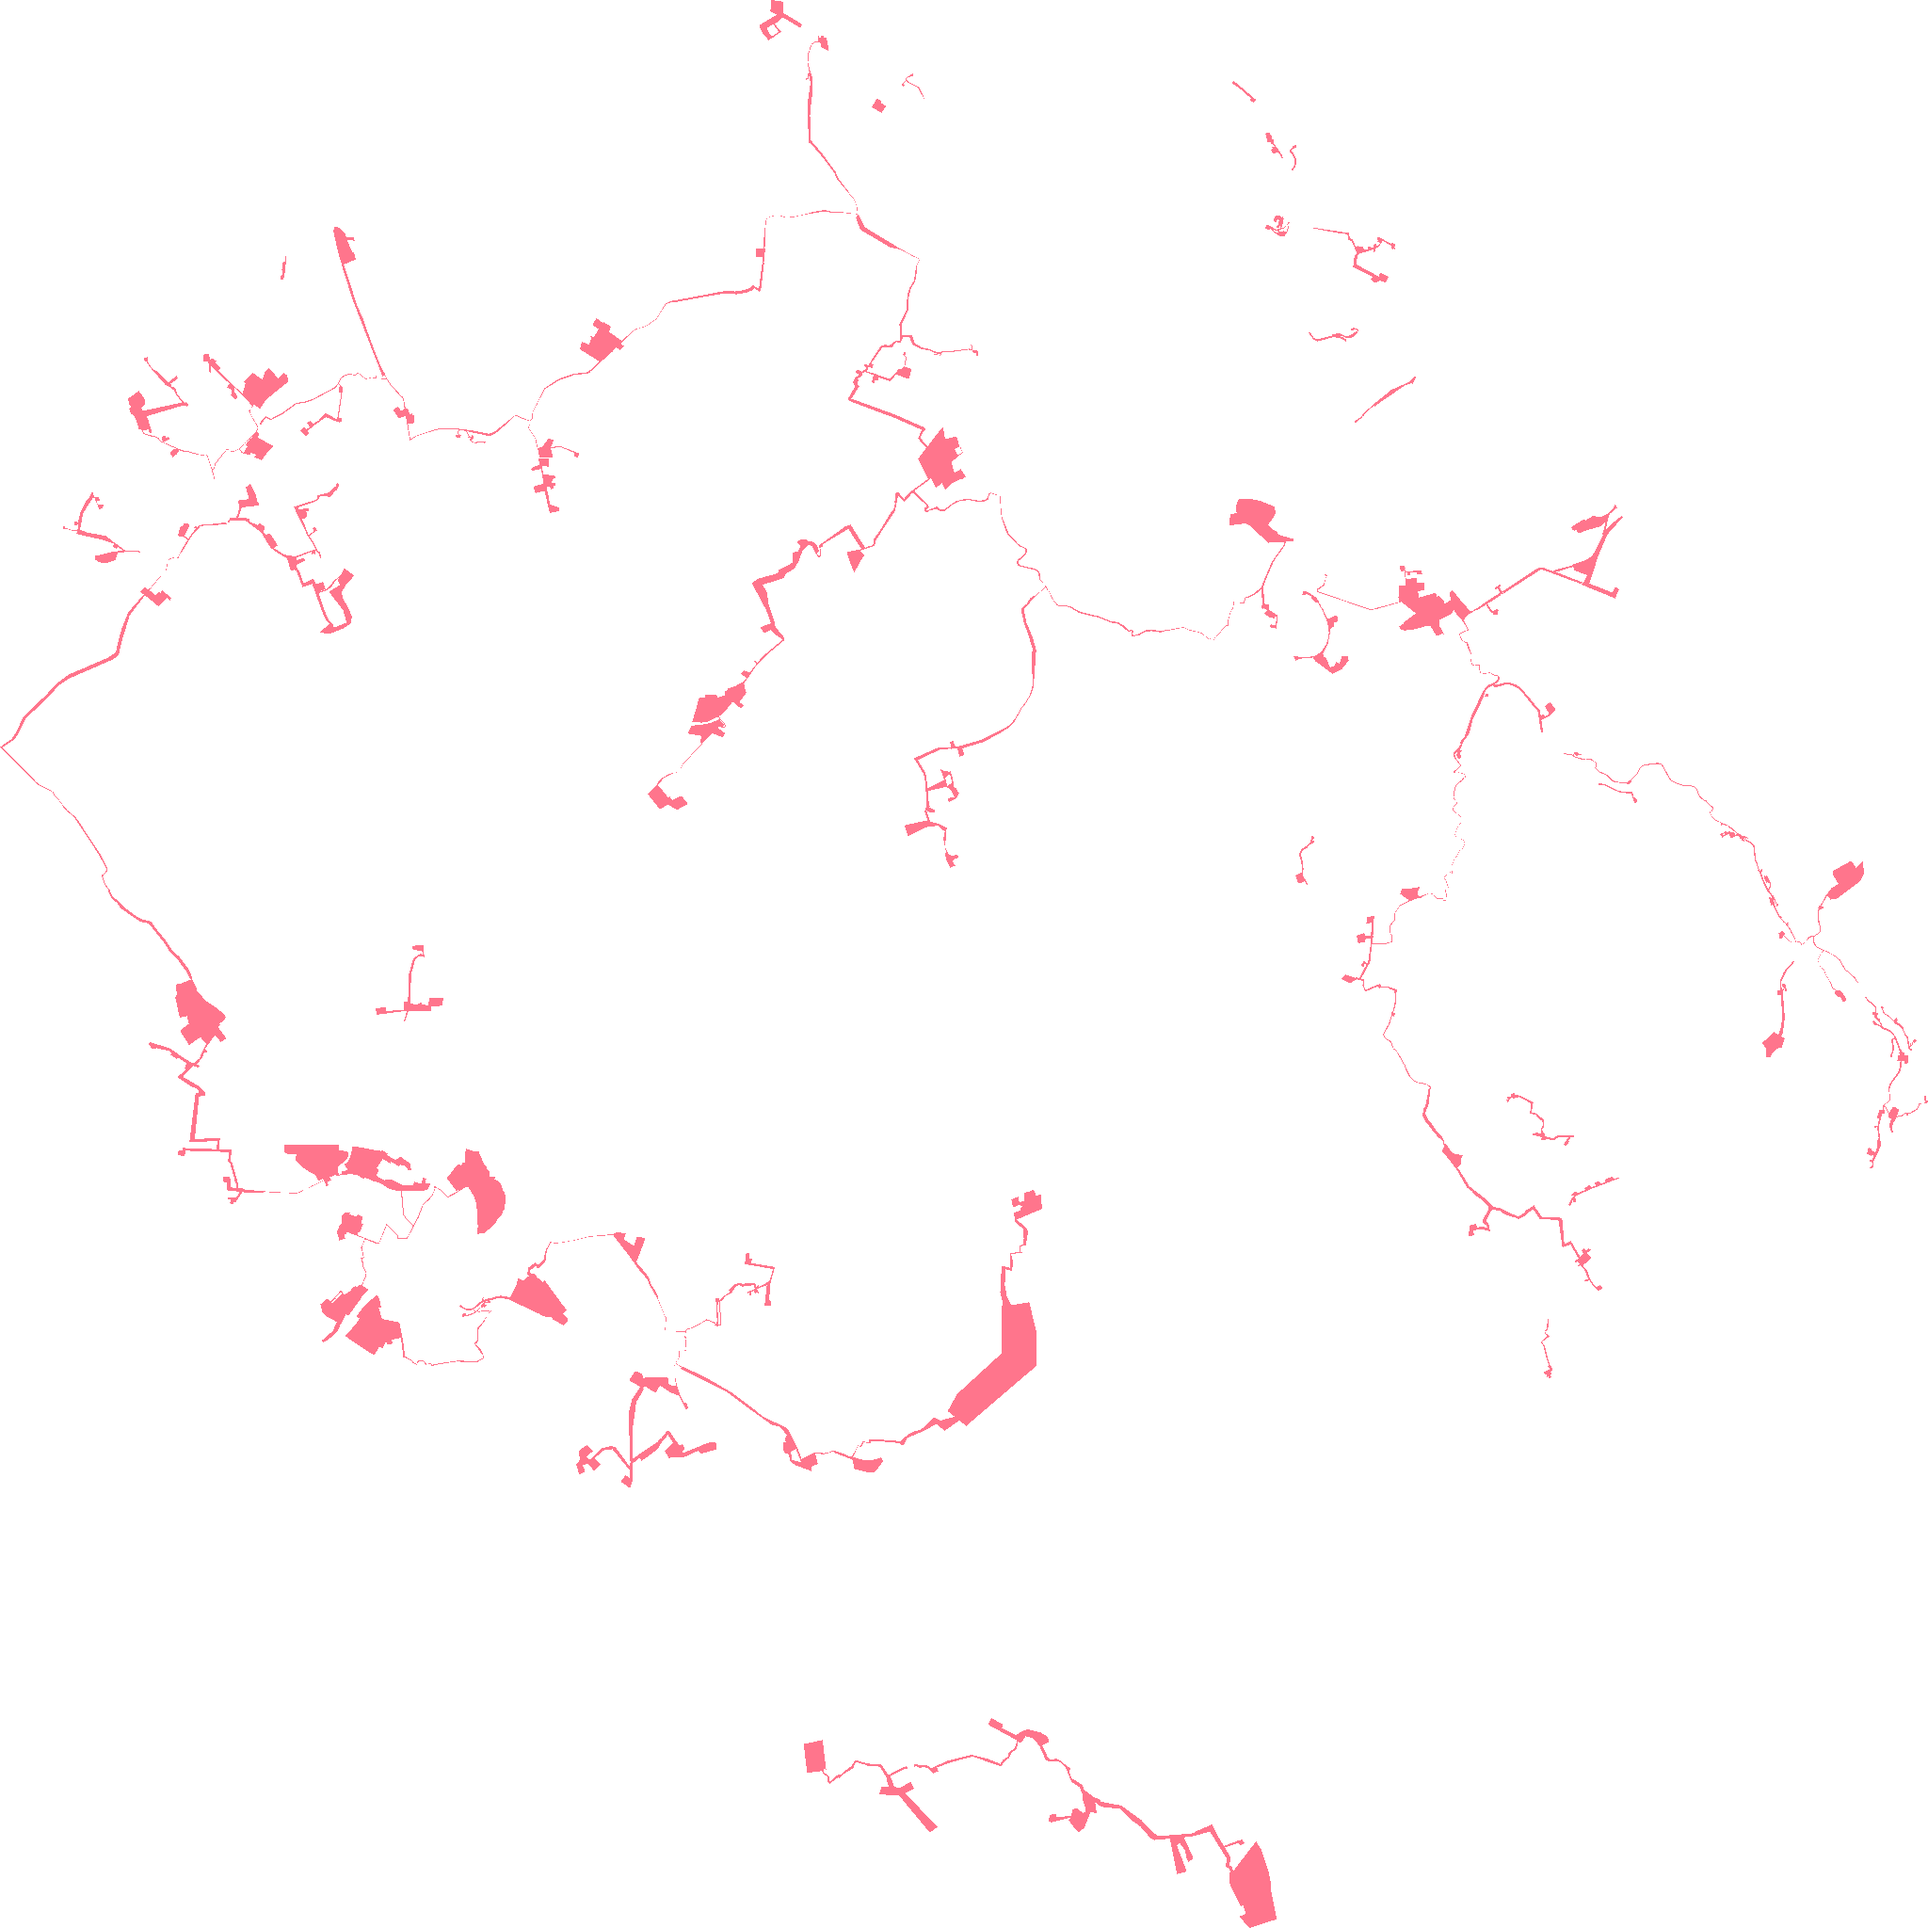
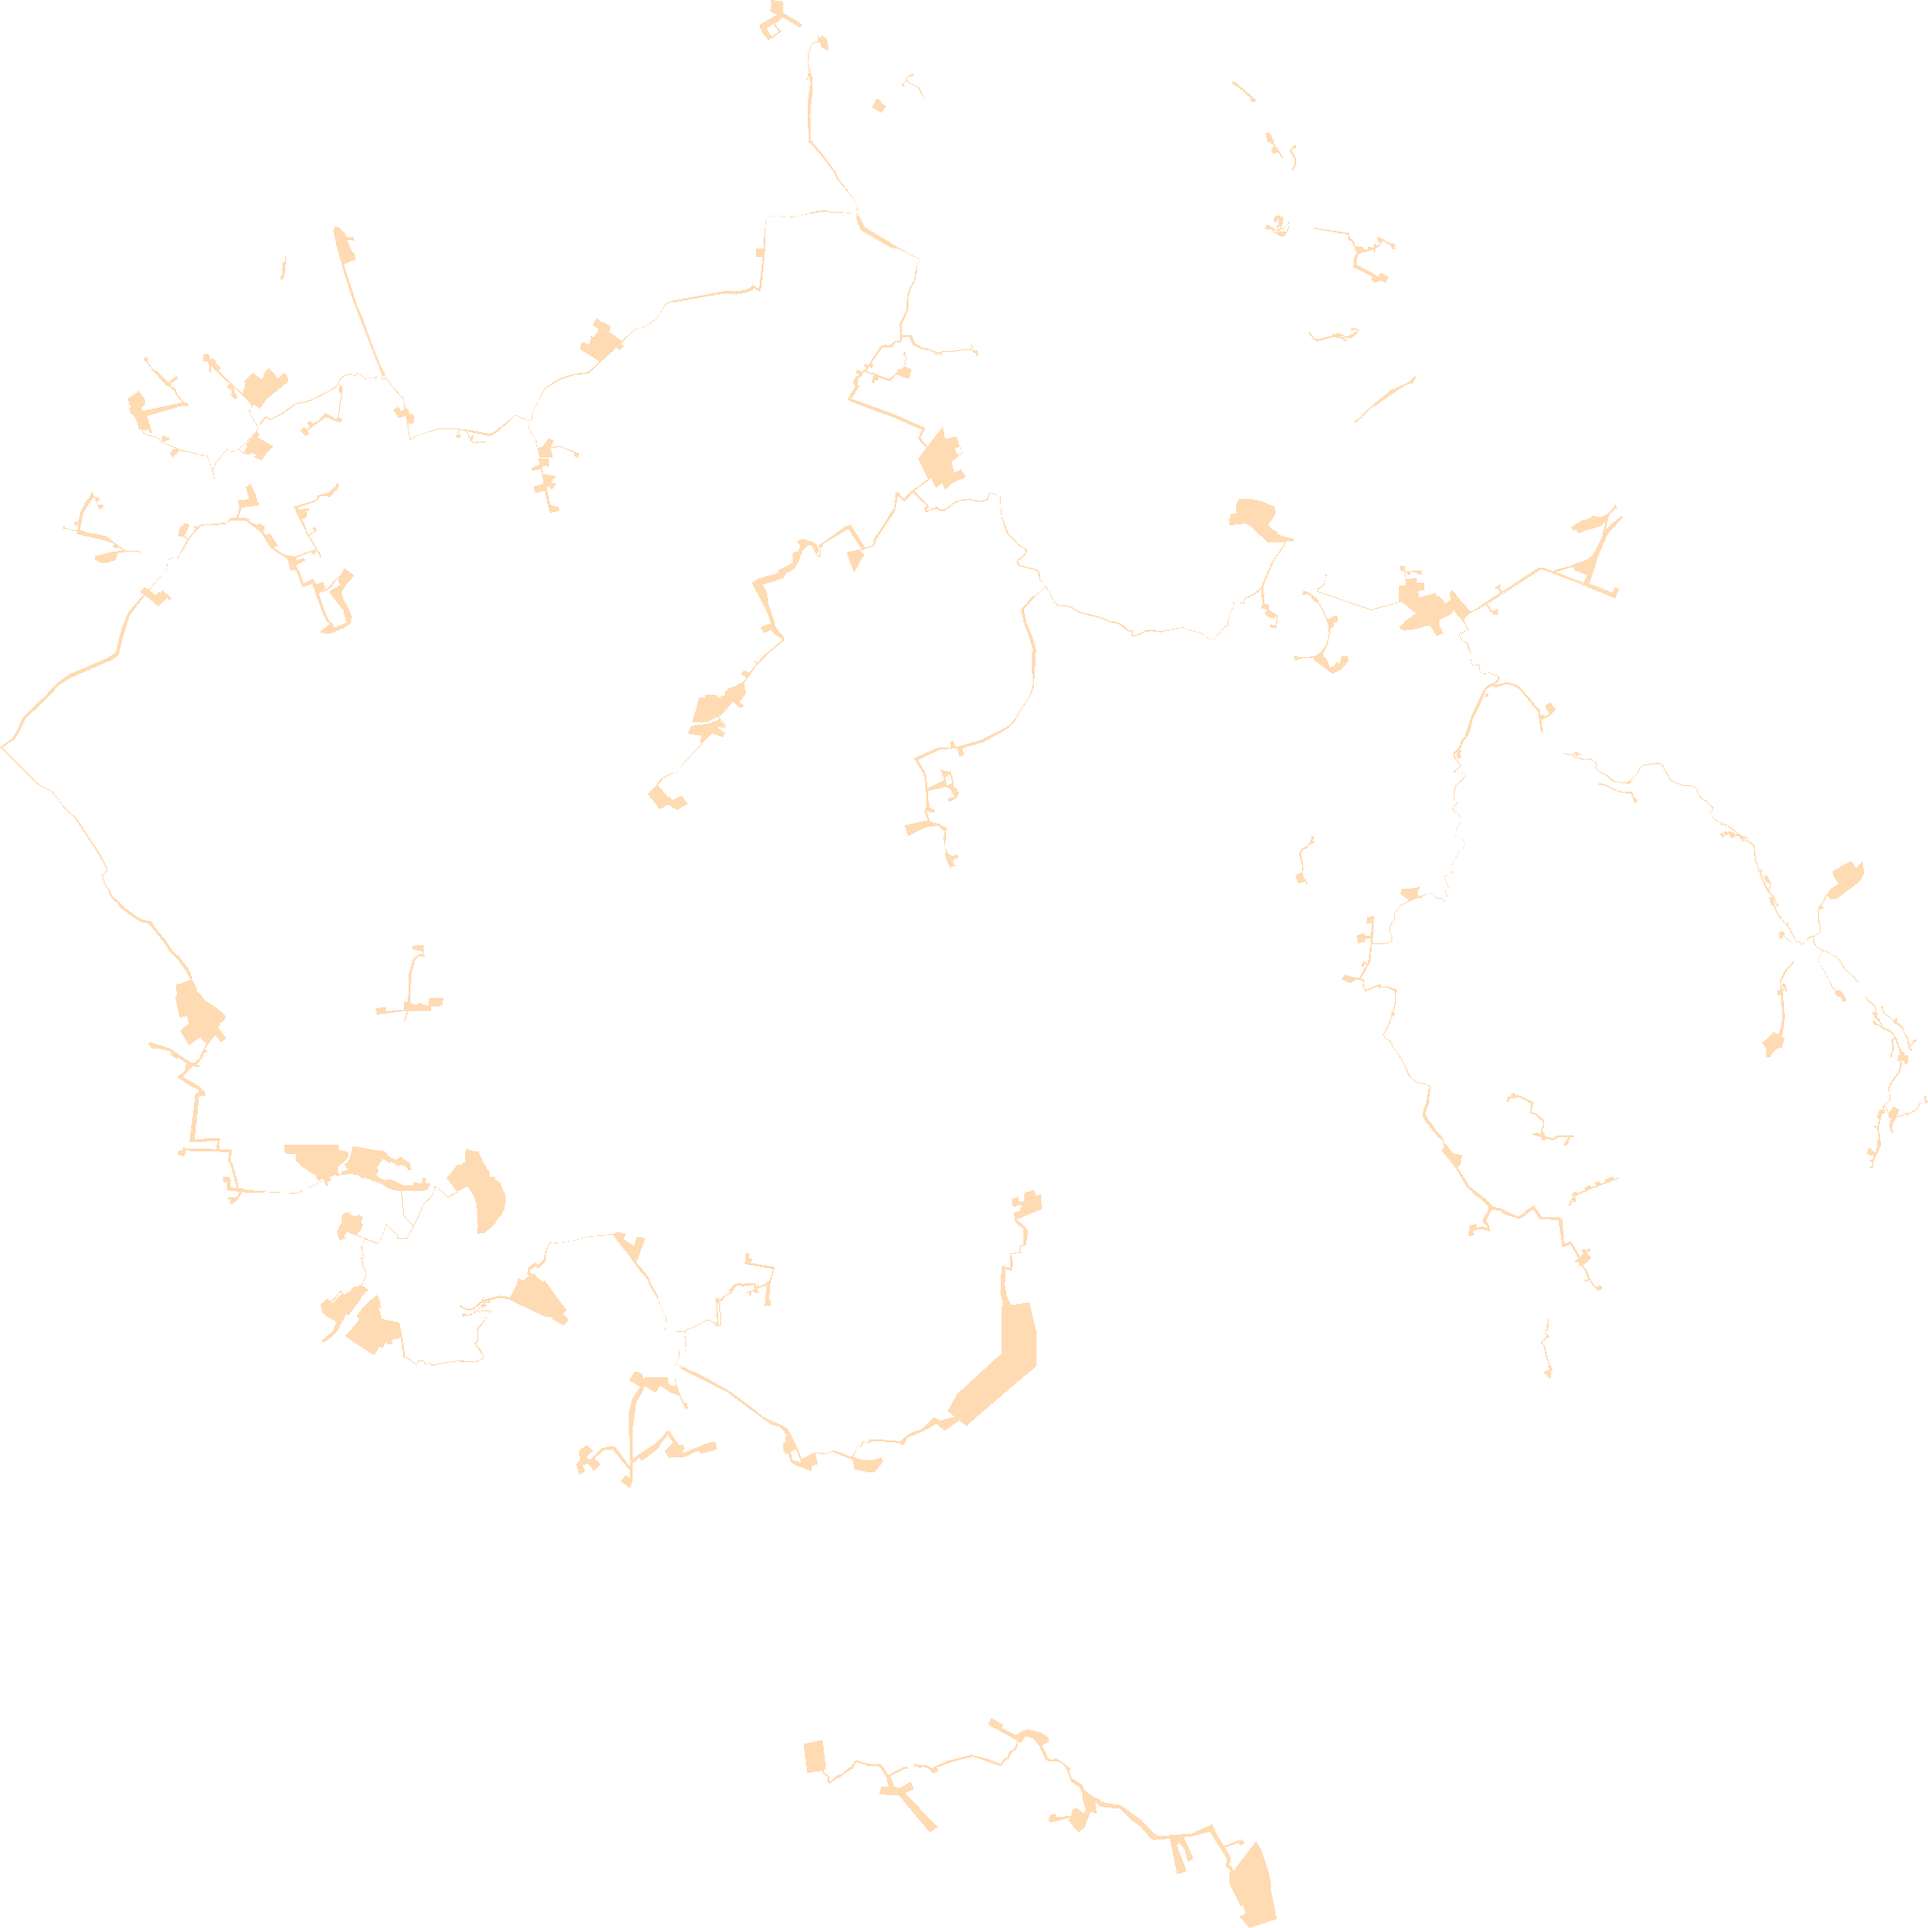
Karte p_342

diff --git a/p_342.html b/p_342.html
@@ -128,8 +128,9 @@
 <body>
     <div id="map"></div>
     <div id="legend">
-        <div><span style="display:inline-block; width:20px; height:10px; background:#FF7F00; margin-right:5px;"></span>Ausbauphase 1: Ausbau bei ausreichender Nachfrage</div>
+        <div><span style="display:inline-block; width:20px; height:10px; background:#FF7F00; margin-right:5px;"></span>Ausbauphase 1: Glasfasernetz vorhanden oder geplant</div>
         <div><span style="display:inline-block;width:20px; height:10px; background:#00143C; margin-right:5px;"></span>Ausbauphase 2: Interessenbekundung möglich</div>
+        <div><span style="display:inline-block;width:20px; height:10px; background:#FFC17D; margin-right:5px;"></span>Ausbauphase 3: Gefördertes Ausbaugebiet </div>
     </div>
     <script>
     const bounds = [[50.29127322, 7.974561715], [50.567953524, 8.399754927]];
